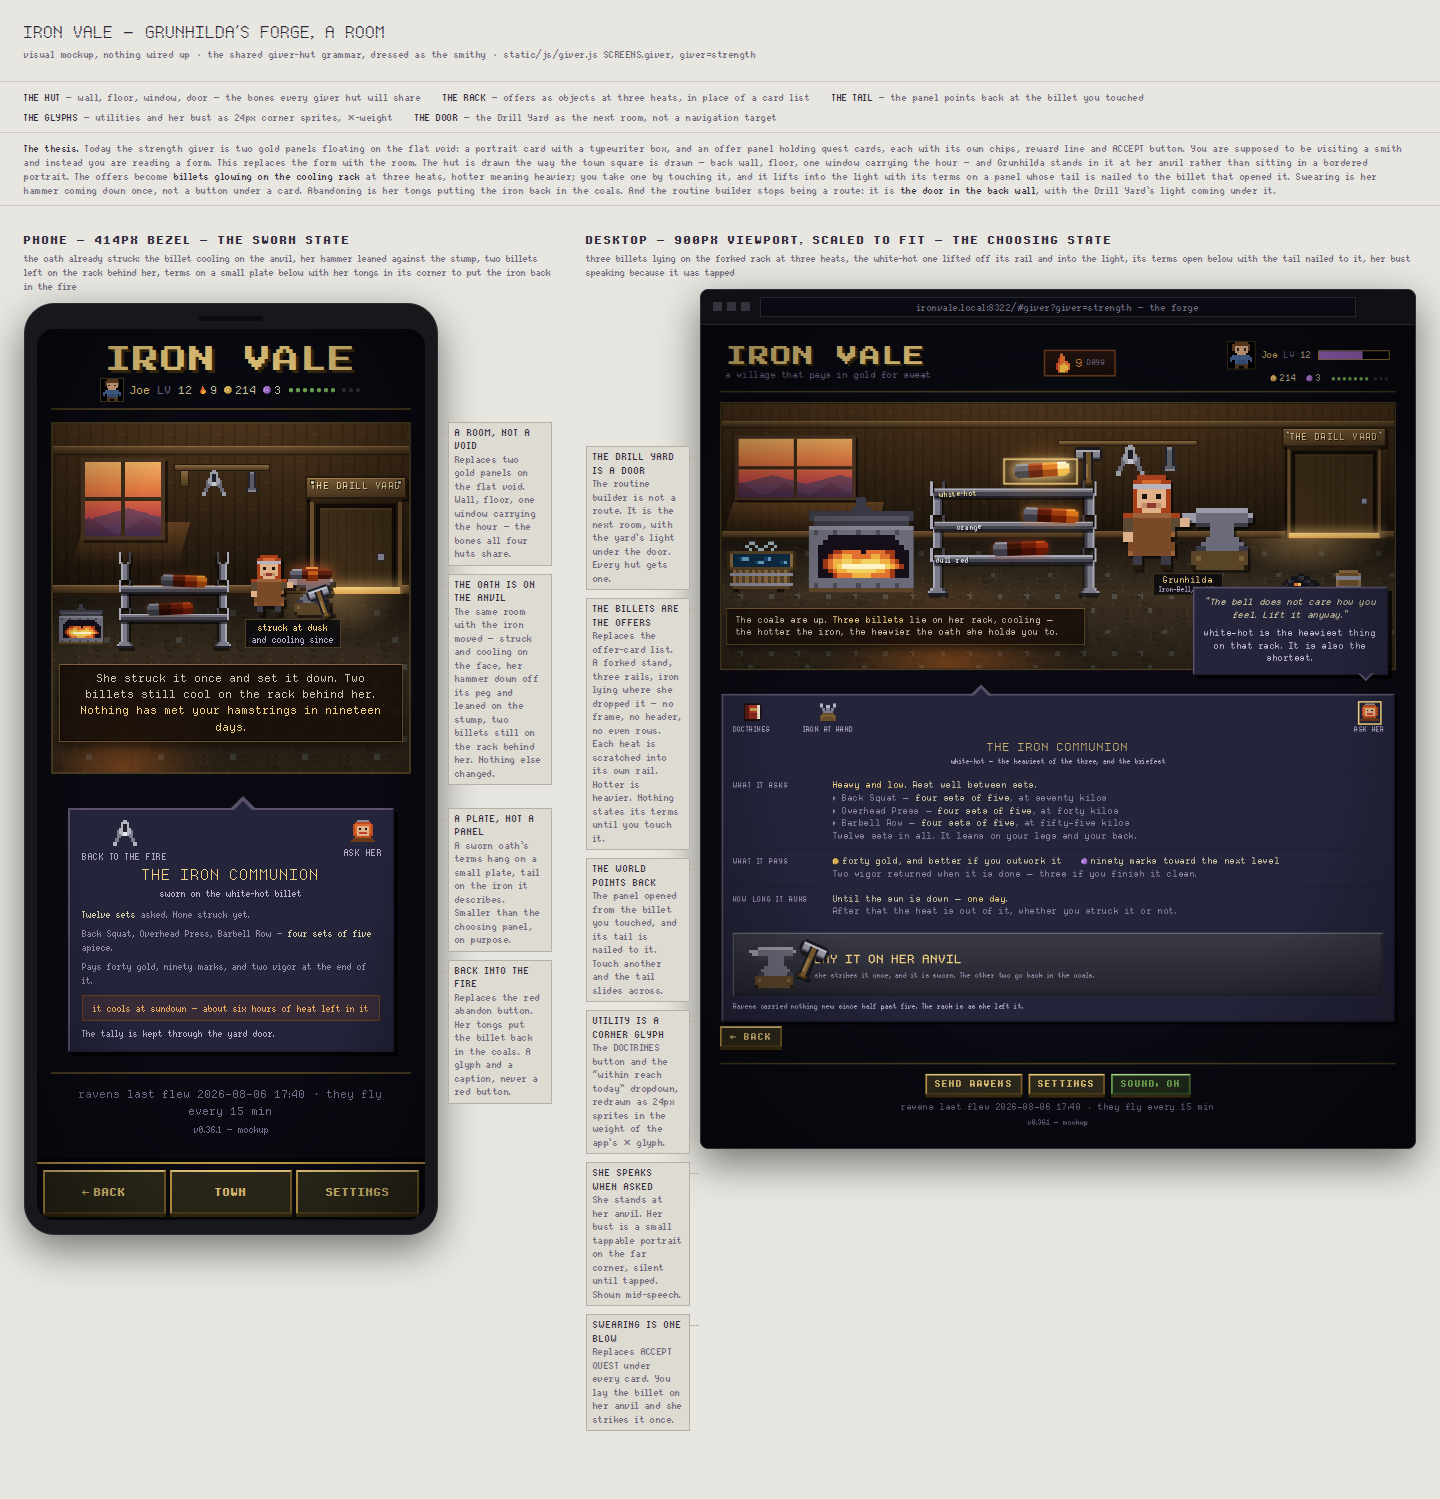
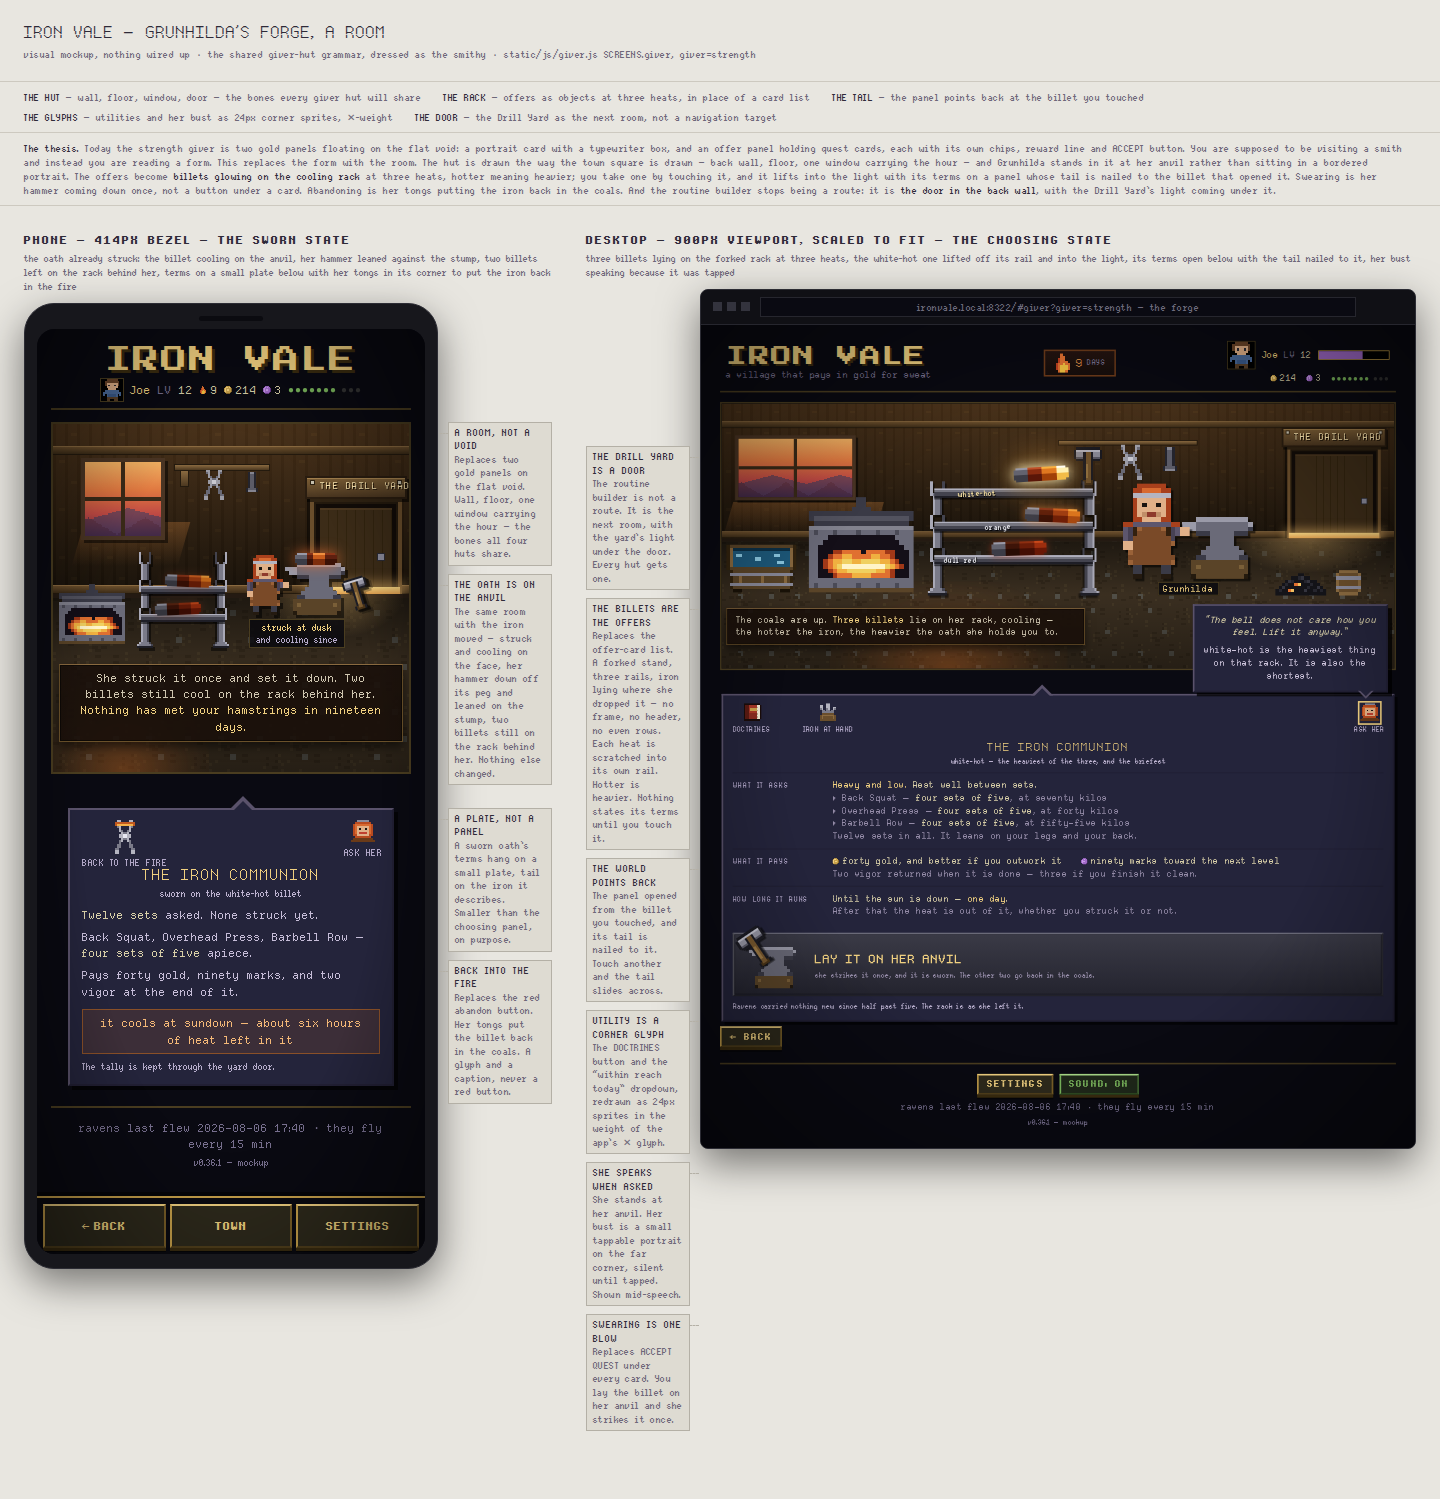
Remove SEND RAVENS from mockup footer chrome, re-render all place-* screenshots
IV.footer() in docs/mockups/_harness.js still had a SEND RAVENS button
alongside SETTINGS and SOUND: ON; remove it (this is the mockup's shared
footer chrome, not the shipped app's raven-sync button in static/js/*, which
is untouched).

Add docs/mockups/_render.mjs, a Playwright script that regenerates the
desktop (1440px viewport) and phone (420px viewport) full-page screenshots
for every place-*.html gallery, matching the dimensions/conventions of the
existing PNGs. Used it to re-render all five scenes (forge, hall, ledger,
room, willow) x two frames = ten images, reflecting the footer change.

Investigated the forge scene's "second-pass" status: docs/mockups/place-forge.html
and its two screenshots were already fully updated in the prior "fix pass"
commit (503775f), matching the survey's description (billets on the cooling
rack, anvil, door to the Drill Yard) and the same commit history as the other
four scenes. No further forge-specific fix was found or applied here beyond
the shared footer change and re-render.

Claude-Session: https://claude.ai/code/session_01CBjEJtxk8W8gDcGTadhDBr

diff --git a/docs/mockups/_harness.js b/docs/mockups/_harness.js
@@ -567,7 +567,7 @@ body { margin:0; background:var(--wall); color:var(--note); font-family:'quanta-
   </div>`;
   };
 
-  /* IV.footer() — SEND RAVENS / SETTINGS / SOUND: ON + the raven line.
+  /* IV.footer() — SETTINGS / SOUND: ON + the raven line.
      The .backrow and .footer-btns hide themselves under .iv-phone (CSS), so the
      same string serves both frames. */
   IV.footer = function (opts) {
@@ -577,7 +577,6 @@ body { margin:0; background:var(--wall); color:var(--note); font-family:'quanta-
     return `<div class="backrow"><button class="btn small">&larr; BACK</button></div>
   <div class="footer">
     <div class="footer-btns">
-      <button class="btn small">SEND RAVENS</button>
       <button class="btn small">SETTINGS</button>
       <button class="btn small green">SOUND: ON</button>
     </div>
